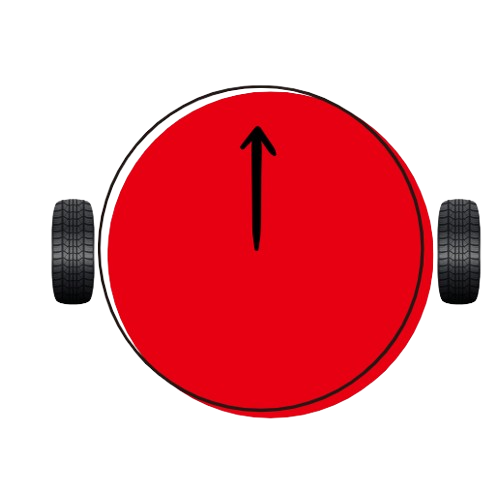
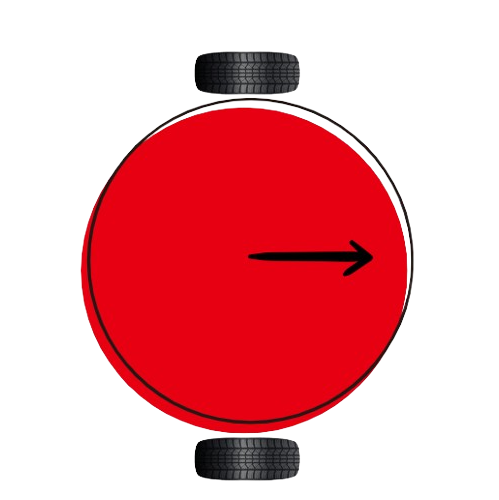
Made robot motion keyboard-controlled

Changed region(s): [[0.0902, 0.0902, 0.9619, 0.9619]]

diff --git a/main.py b/main.py
@@ -1,5 +1,6 @@
 import pygame
-from robot_model import draw_robot
+import math
+from robot_model import draw_robot  
 
 pygame.init()
 screen = pygame.display.set_mode((800, 600))
@@ -9,7 +10,10 @@ background_color = (234, 216, 177)  # Light beige
 
 robot_x = 400
 robot_y = 300
-robot_theta = 0
+robot_theta = 0  # Start facing to the right (0 radians)
+robot_speed = 2
+
+trail_positions = []
 
 running = True
 while running:
@@ -17,10 +21,33 @@ while running:
         if event.type == pygame.QUIT:
             running = False
 
+    keys = pygame.key.get_pressed()
+
+    if keys[pygame.K_UP]:  # Move forward
+        robot_x += robot_speed * math.cos(robot_theta)
+        robot_y += robot_speed * math.sin(robot_theta)
+        
+        trail_positions.append((robot_x, robot_y))
+
+    if keys[pygame.K_DOWN]:  # Move backward
+        robot_x -= robot_speed * math.cos(robot_theta)
+        robot_y -= robot_speed * math.sin(robot_theta)
+        
+        trail_positions.append((robot_x, robot_y))
+
+    if keys[pygame.K_LEFT]:  # Rotate left
+        robot_theta -= 0.1 
+
+    if keys[pygame.K_RIGHT]:  # Rotate right
+        robot_theta += 0.1  
+
     screen.fill(background_color)
-    
+
+    for pos in trail_positions:
+        pygame.draw.circle(screen, (0, 0, 0), (int(pos[0]), int(pos[1])), 2)
+
     draw_robot(screen, robot_x, robot_y, robot_theta)
-    
+
     pygame.display.flip()
     
     clock.tick(30)

diff --git a/robot_model.py b/robot_model.py
@@ -1,24 +1,23 @@
 import pygame
 import math
 
+# Load and scale the robot image once at the start
 robot_image = pygame.image.load("assets/robot_model.png")
 
+# Scale the image to the desired size
 original_width, original_height = robot_image.get_size()
-
 desired_width = 100  
 desired_height = int(desired_width * original_height / original_width)  # Maintain aspect ratio
-
 robot_image = pygame.transform.smoothscale(robot_image, (desired_width, desired_height))
 
 def draw_robot(screen, x, y, theta):
-    # Get the dimensions of the scaled image
-    width, height = robot_image.get_size()
-
     # Rotate the image based on the robot's orientation (theta)
+    # The angle must be negated to match the coordinate system
     rotated_image = pygame.transform.rotate(robot_image, -math.degrees(theta))
 
-    # Calculate the new image rectangle to maintain its center
+    # Get the rectangle of the rotated image
     new_rect = rotated_image.get_rect(center=(x, y))
 
     # Blit (draw) the rotated image to the screen
     screen.blit(rotated_image, new_rect.topleft)
+
